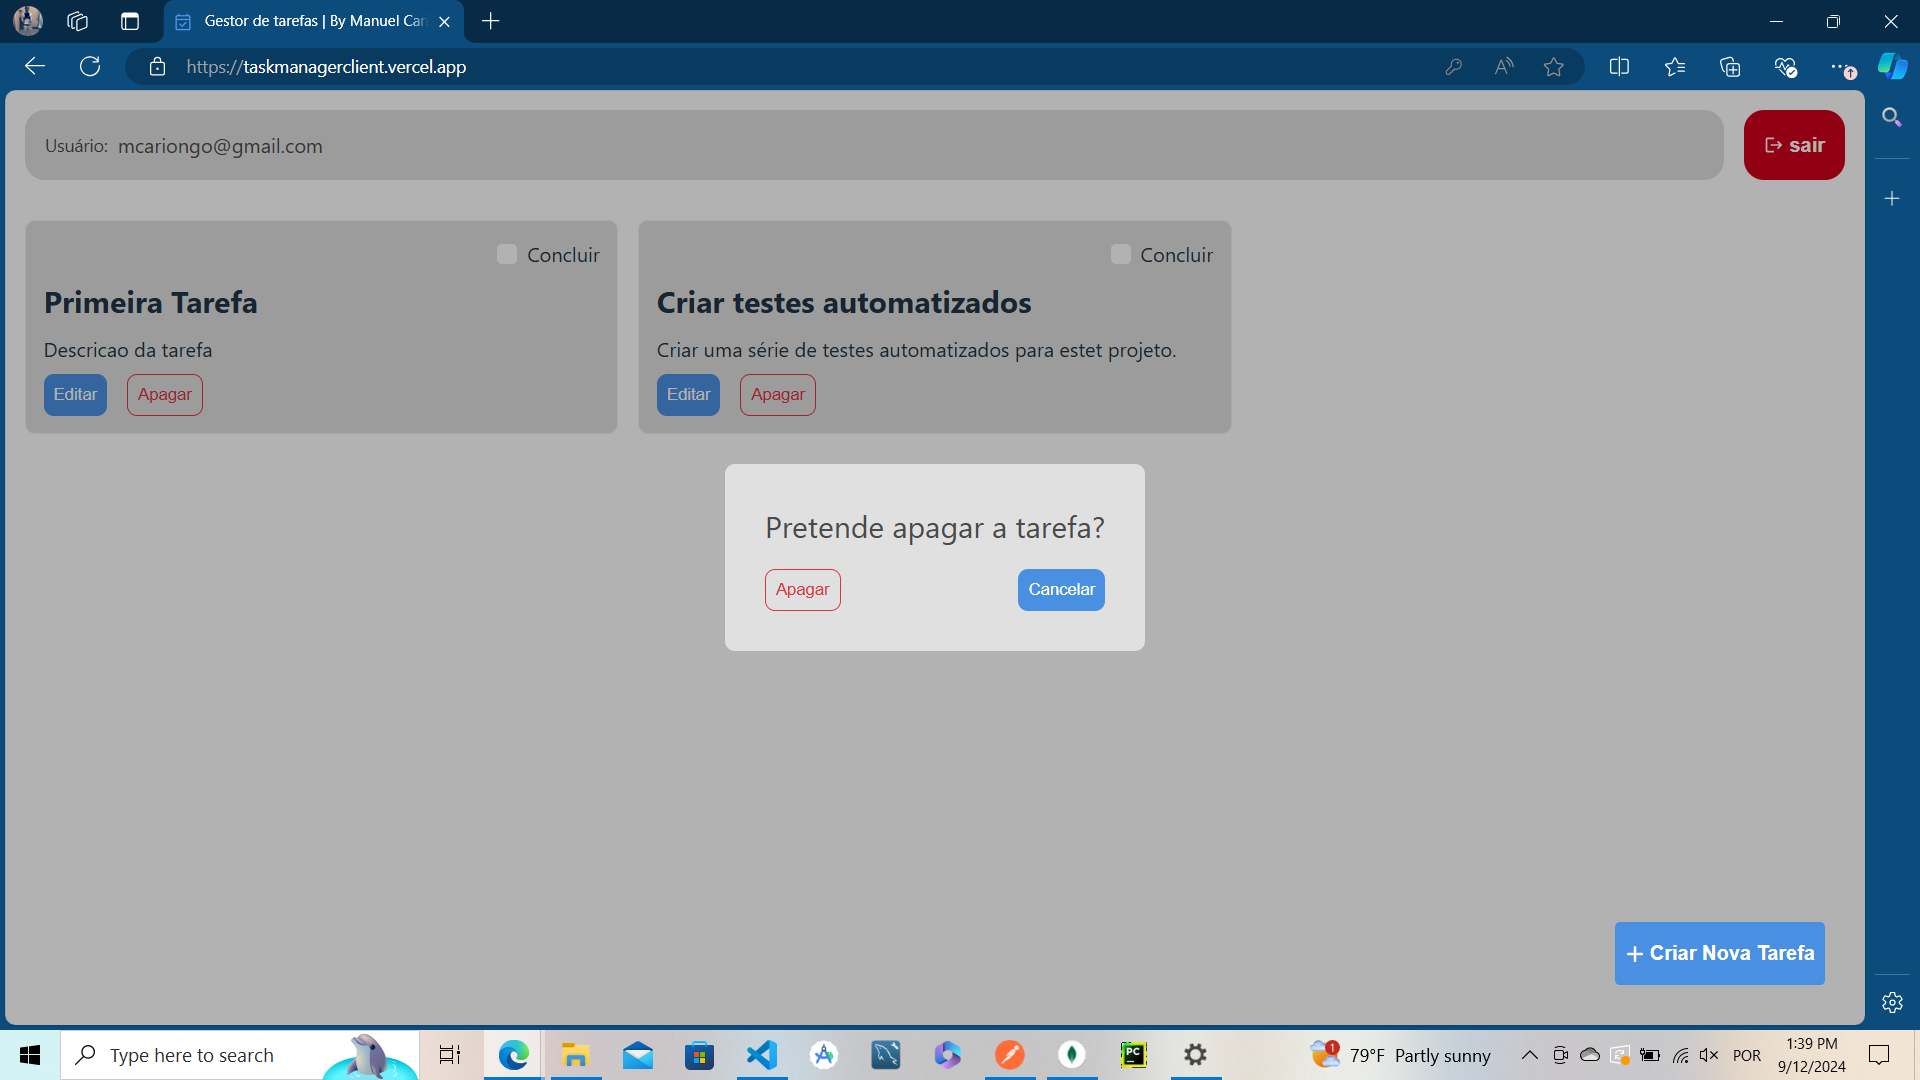
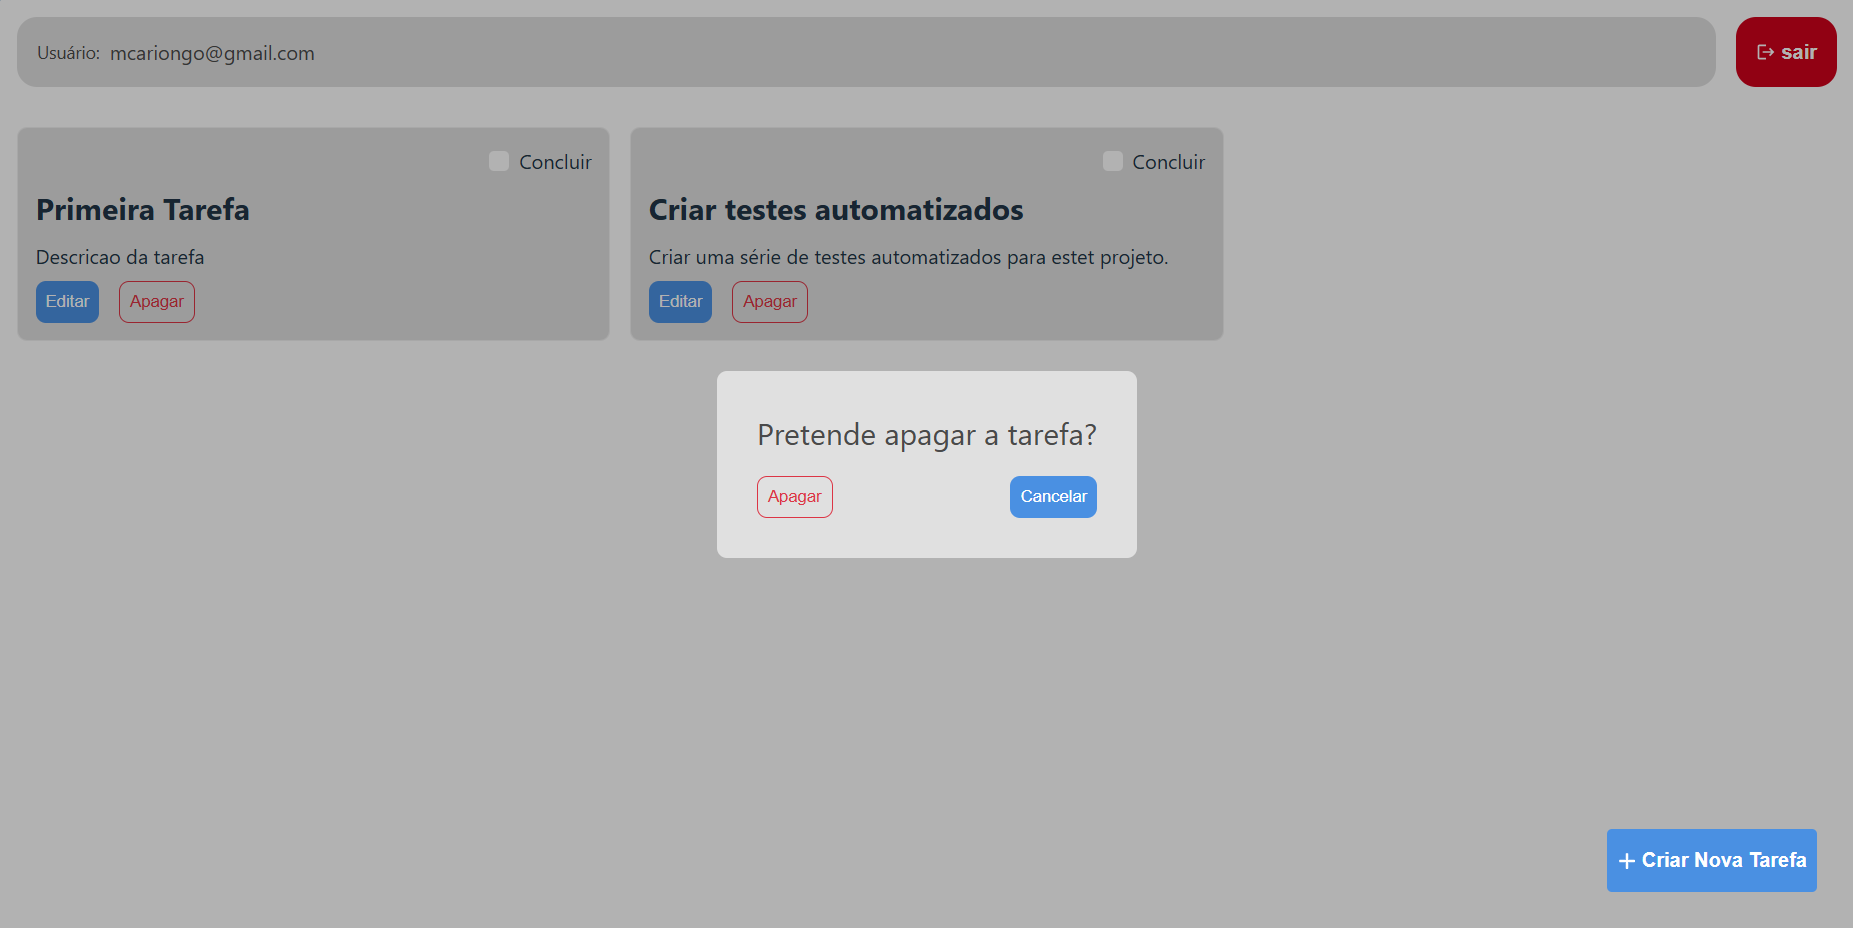
Edit README images

diff --git a/README.md b/README.md
@@ -98,8 +98,9 @@ Durante o desenvolvimento deste projeto, tomei as seguintes decisões:
    ```
 
 ## Imagens
-![Tela de login](./readme_images/login_page.png)
-![Tela principal](./readme_images/task_list.png)
-![Editar tarefa](./readme_images/edit_task.png)
-![Criar tarefa](./readme_images/create_task.png)
-![Apagar tarefa](./readme_images/delete_task.png)
+
+<img src="./readme_images/login_page.png" width="50%" alt="Tela de login">
+<img src="./readme_images/task_list.png" width="50%" alt="Tela principal">
+<img src="./readme_images/edit_task.png" width="50%" alt="Editar tarefa">
+<img src="./readme_images/create_task.png" width="50%" alt="Criar tarefa">
+<img src="./readme_images/delete_task.png" width="50%" alt="Apagar tarefa">
